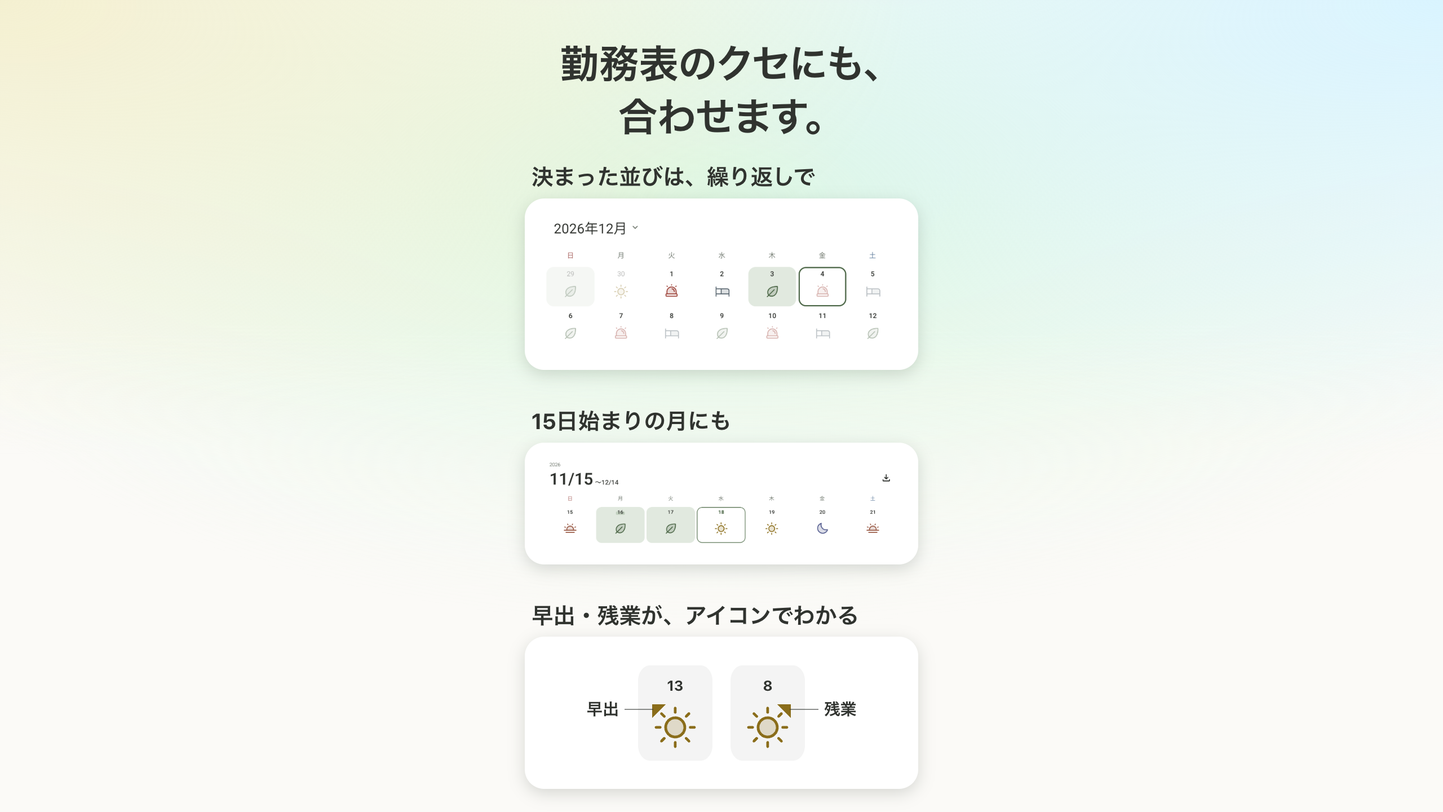
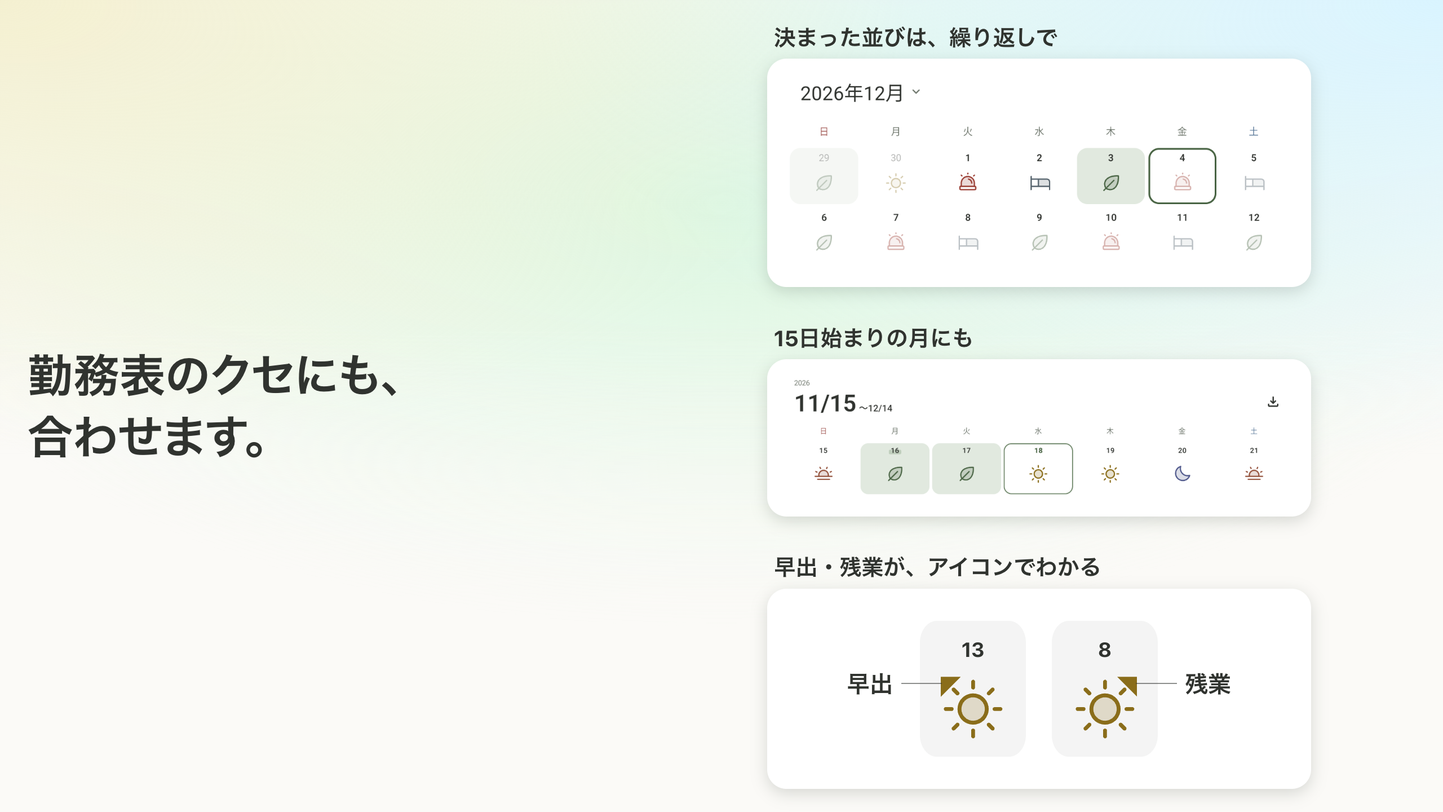
Store pictures: a tablet's tiles beside their headline
On a picture on its side, the tiles of 07-details and 08-cares stood in
a narrow column under a headline of two lines, too small to read at a
listing's size. Such a picture now lays its headline on the left, large
and left-aligned, and the tiles in a column a little over half its width
on the right, from its top to its foot (besideOf, BESIDE), the tiles as
large as that column lets them by the rules they kept. Pictures on their
side of a screen, and every upright picture, are as they were.

diff --git a/apps/design/src/routes/_tool/[_]render/store-shot.tsx b/apps/design/src/routes/_tool/[_]render/store-shot.tsx
@@ -1,6 +1,8 @@
 import { ShiftMark } from "@pochical/prototype/components/shift-mark";
 import { presetPatterns } from "@pochical/prototype/lib/design-patterns";
 import {
+  BESIDE,
+  besideOf,
   HEADLINE,
   HEADLINE_SHARE,
   lineClearOf,
@@ -94,28 +96,47 @@ const TILES = {
   words: 4.8,
 };
 
-// How the tiles lie, in --u: from where a phone starts under the headline
-// to where it ends, in `picture`, whose store's screen is `screen`. Each
-// holds a part as tall as `parts` says in its widths; they are as wide as
-// lets them all fit there with the least gap, and share the room they
-// leave evenly as the gaps between them, up to the most a gap may be,
-// beyond which the rest is sky over and under them alike: they are a group
-// of their own, not a phone, one over the other in a picture on its side
-// too, as wide as its screen is drawn at most.
+// Where the tiles stand, in --u: `stage` units tall, `widest` across at
+// most. Under the headline, where a phone is, as wide as the screen is
+// drawn there at most (or as the iPhone is, where that is wider); beside
+// the headline (besideOf), the tiles' column, from the picture's top to
+// its foot with the room under a phone at both.
+const tilesStage = (
+  picture: { height: number; width: number },
+  screen: { height: number; width: number },
+  beside: boolean
+) => {
+  const unit = unitOf(picture);
+  if (beside) {
+    return {
+      stage: picture.height / unit - 2 * STAGE_FOOT,
+      widest: (picture.width * BESIDE.tiles) / unit - 2 * BESIDE.margin,
+    };
+  }
+  const stage = (picture.height * (1 - HEADLINE_SHARE)) / unit - STAGE_FOOT;
+  return {
+    stage,
+    widest: Math.max(TILES.widest, (stage * screen.width) / screen.height),
+  };
+};
+
+// How the tiles lie, in --u, on their stage (tilesStage). Each holds a
+// part as tall as `parts` says in its widths; they are as wide as lets
+// them all fit there with the least gap, `widest` at most, and share the
+// room they leave evenly as the gaps between them, up to the most a gap
+// may be, beyond which the rest is sky over and under them alike: they are
+// a group of their own, not a phone, one over the other.
 const tilesLie = (
   parts: number[],
-  picture: { height: number; width: number },
-  screen: { height: number; width: number }
+  { stage, widest }: { stage: number; widest: number }
 ) => {
   const gaps = Math.max(parts.length - 1, 1);
-  const stage =
-    (picture.height * (1 - HEADLINE_SHARE)) / unitOf(picture) - STAGE_FOOT;
   const room =
     stage -
     (TILES.words * TILES.line + TILES.under + 2 * TILES.pad) * parts.length;
   const tallness = parts.reduce((sum, part) => sum + part, 0);
   const wide = Math.min(
-    Math.max(TILES.widest, (stage * screen.width) / screen.height),
+    widest,
     (room - TILES.gap * gaps) / tallness + 2 * TILES.pad
   );
   const left = room - tallness * (wide - 2 * TILES.pad);
@@ -152,6 +173,20 @@ const styles = {
     paddingTop: `calc(var(--u) * ${HEADLINE.over})`,
     position: "relative",
     textAlign: "center",
+    whiteSpace: "nowrap",
+    zIndex: 1,
+  }),
+  // The headline beside the tiles (besideOf): in the picture's left part,
+  // down its middle, left-aligned.
+  headlineBeside: css({
+    alignItems: "center",
+    boxSizing: "border-box",
+    display: "flex",
+    fontSize: `calc(var(--u) * ${BESIDE.size})`,
+    inset: `0 ${BESIDE.tiles * 100}% 0 0`,
+    paddingLeft: `calc(var(--u) * ${BESIDE.margin})`,
+    position: "absolute",
+    textAlign: "left",
     whiteSpace: "nowrap",
     zIndex: 1,
   }),
@@ -210,14 +245,21 @@ const styles = {
   }),
   // The tiles one over the other, each as tall as its part is, in the middle
   // of where a phone is under the headline (tilesLie).
+  // Beside the headline, the tiles' column on the right (besideOf).
+  tilesBeside: css({
+    inset: `calc(var(--u) * ${STAGE_FOOT}) 0 calc(var(--u) * ${STAGE_FOOT}) ${(1 - BESIDE.tiles) * 100}%`,
+  }),
   tiles: css({
     "& figure": { margin: 0 },
     alignItems: "center",
     display: "flex",
     flexDirection: "column",
-    inset: `var(--headline) 0 calc(var(--u) * ${STAGE_FOOT})`,
     justifyContent: "center",
     position: "absolute",
+  }),
+  // Under the headline, where a phone is.
+  tilesUnder: css({
+    inset: `var(--headline) 0 calc(var(--u) * ${STAGE_FOOT})`,
   }),
   // The widgets on a Home Screen's grid, tilted, running off every edge
   // and fading into the sky where the picture's words are.
@@ -270,6 +312,7 @@ function StoreShotPage() {
   }
   const { corner, height, screen, width } = STORES[store];
   const pair = `${width > height ? PAIR.side : PAIR.upright}%`;
+  const beside = besideOf(shot, { height, width });
   return (
     <div
       className={styles.root}
@@ -291,7 +334,10 @@ function StoreShotPage() {
         />
       )}
       <h1
-        className={cx(pictureTitle, styles.headline)}
+        className={cx(
+          pictureTitle,
+          beside ? styles.headlineBeside : styles.headline
+        )}
         style={pictureTitleStyle}
       >
         <span>
@@ -316,11 +362,11 @@ function StoreShotPage() {
       )}
       {shot.kind === "tiles" && (
         <Tiles
+          beside={beside}
           grounds={grounds.split(",")}
           lie={tilesLie(
             parts.split(",").map(Number),
-            { height, width },
-            screen
+            tilesStage({ height, width }, screen, beside)
           )}
           tiles={shot.tiles}
           unit={unitOf({ height, width })}
@@ -401,18 +447,26 @@ function CalloutCard({ drawn, raw }: { drawn: number[]; raw: string }) {
 // over its card, which holds its part of a screen or its pieces. `unit` is
 // the picture's unit in pixels.
 function Tiles({
+  beside,
   grounds,
   lie: { gap, wide },
   tiles,
   unit,
 }: {
+  beside: boolean;
   grounds: string[];
   lie: { gap: number; wide: number };
   tiles: readonly Tile[];
   unit: number;
 }) {
   return (
-    <div className={styles.tiles} style={{ gap: `calc(var(--u) * ${gap})` }}>
+    <div
+      className={cx(
+        styles.tiles,
+        beside ? styles.tilesBeside : styles.tilesUnder
+      )}
+      style={{ gap: `calc(var(--u) * ${gap})` }}
+    >
       {tiles.map((tile, index) => (
         <figure key={tile.words} style={{ width: `calc(var(--u) * ${wide})` }}>
           <figcaption className={styles.tileWords}>{tile.words}</figcaption>

diff --git a/apps/design/tests/store-screenshots.test.ts b/apps/design/tests/store-screenshots.test.ts
@@ -3,6 +3,8 @@ import path from "node:path";
 
 import {
   calloutOf,
+  BESIDE,
+  besideOf,
   HEADLINE,
   HEADLINE_SHARE,
   STAGE_FOOT,
@@ -114,6 +116,37 @@ test.each([
       height: size.height,
       width: size.width,
     });
+  }
+);
+
+// A headline beside the tiles (besideOf) keeps its rows, never broken,
+// inside the picture's part left of the tiles' column, its margin at both
+// sides, and its lines inside the picture's height.
+test.each(
+  STORE_SHOTS.flatMap((shot) =>
+    Object.entries(STORES)
+      .filter(([, picture]) => besideOf(shot, picture))
+      .map(([store, picture]) => ({
+        headline: shot.headline,
+        name: shot.name,
+        picture,
+        store,
+      }))
+  )
+)(
+  "$name's headline fits beside its tiles in $store",
+  ({ headline, picture }) => {
+    const unit = unitOf(picture);
+    for (const line of headline) {
+      expect(
+        line.length * BESIDE.size * (1 + TITLE.spacing)
+      ).toBeLessThanOrEqual(
+        (picture.width * (1 - BESIDE.tiles)) / unit - 2 * BESIDE.margin
+      );
+    }
+    expect(headline.length * BESIDE.size * TITLE.line).toBeLessThanOrEqual(
+      picture.height / unit
+    );
   }
 );
 

diff --git a/packages/prototype/src/lib/store-shots.ts b/packages/prototype/src/lib/store-shots.ts
@@ -106,6 +106,20 @@ export const HEADLINE_SHARE = 0.2;
 // row, never broken.
 export const HEADLINE = { margin: 2, over: 4, size: 8.6 } as const;
 
+// A picture on its side of tiles, a tablet's, lays its headline beside
+// them rather than over them, where it would leave the tiles the narrow
+// column a phone's are: the tiles' column on the right, `tiles` of the
+// picture's width, and the headline in the rest, left-aligned, its
+// letters `size` units large, `margin` units from the picture's left
+// side and from the tiles. A picture on its side of a screen keeps its
+// headline over the screen.
+export const BESIDE = { margin: 6, size: 10, tiles: 0.56 } as const;
+
+export const besideOf = (
+  shot: { kind: string },
+  picture: { height: number; width: number }
+): boolean => shot.kind === "tiles" && picture.width > picture.height;
+
 // How a picture's title is set (apps/design's site-picture.tsx): how tall
 // a line is in its letters' size, and how far apart the letters are, in
 // it too.

diff --git a/AGENTS.md b/AGENTS.md
@@ -14,7 +14,7 @@ Pochical is a monorepo: native SwiftUI (`apps/ios`) and Jetpack Compose (`apps/a
   - ライセンス's list of libraries is generated by each app's build, never checked in (spec/calendar.md, ライセンス): on iOS by LicenseList's build plugin from the resolved Swift packages' checkouts (`PLL_SOURCE_PACKAGES_PATH` names them when `-clonedSourcePackagesDirPath` moves them, as CI's `ios` job does), on Android by AboutLibraries' Gradle plugin into each variant's `res/raw/aboutlibraries.json`, with what the app carries besides its dependencies in `apps/android/app/aboutlibraries/libraries`.
   - Icons: the marks' paths from Phosphor via `pnpm --dir design icon:marks`; the iOS app icons and the widgets' `PeekingPoodle` via `pnpm --dir packages/prototype icon:ios`, and Android's launcher icon (its `mipmap` layers and the background color) and the Play listing's 512-pixel icon (`apps/android/app/src/main/ic_launcher-playstore.png`) and the widgets' `widget_poodle` via `icon:android`, both painting with `scripts/app-icon.ts` as the site icon's `icon:site` does.
   - try's installable app (`apps/try/public/app`): the icons, iOS's launch images and the web app manifest via `pnpm --dir apps/try icon:app` (`scripts/app-assets.ts`), and the manifest's screenshots, the screens `src/lib/app-screenshots.ts` names, via `image:screens`, which photographs the app on a dev server of its own as apps/design's `image:share` photographs the share image, both through `@pochical/prototype`'s `scripts/photograph.ts`. A change to that list runs both.
-  - The stores' pictures (`store/screenshots/<store>`, Google Play's feature graphic, `store/feature-graphic.png`, and the App Store's product page header, `store/product-page-header.png`): the shots, their headlines and each store's size in `@pochical/prototype`'s `lib/store-shots.ts` → `ANDROID_SERIAL=emulator-<port> mise run store:screenshots`. It photographs the real apps' screens into `.build/store-screenshots/<store>`, under the same names on both platforms, each against a server it starts and `tools/store-screenshots/seed.ts` seeds with two groups made by one piece, the coworkers' and a group of friends, each person's photo one of the faces' drawings (`design/src/drawings`) (`store:shots:android`: `StoreScreenshots` on the running emulator `ANDROID_SERIAL` names, never a phone, the widgets drawn there by themselves from the app's own days; `store:shots:ios`: `StoreScreenshotTests` in a simulator of its own and no other, `pochical-store`, an iPhone 18 Pro Max, the run failing when a simulator of the name is another device, the widgets put on its Home Screen; and for a tablet's pictures the same shots on a tablet on its side, where its wide layouts show (#1226): `store:shots:ipad` in its own `pochical-store-ipad`, an iPad Pro 13-inch (M5), the tab bar at the top as the app opens, and `store:shots:android-tablet` on the running tablet's emulator `ANDROID_SERIAL` names, each failing on a device of the other kind, into `.build/store-screenshots/ipad` and `android-tablet`), then draws each on the site's sky under its headline (`store:images`: apps/design's `image:store`, which photographs `/_render/store-shot` as `image:share` does the share image, for each store whose screens are there). The seed runs beside the capture: it makes the groups, writes their invitations, and writes the coworkers' chat only once the person photographed has joined, so the chat says every joining above its lines, and more lines than a screen holds keep them out of the picture, among them two photographs sent at once (`tools/store-screenshots/photos`, whose README names where each is from; a JPEG put there under the same name is sent in its place); the capture reads the chat to its latest line, opens it again, and photographs it there. The status bar says 9:41 in every picture, whenever the run is, and the chat's lines the time they were written; Android's is SystemUI's demo, entered once the emulator is on its Wi-Fi, as one entered in the seconds after a boot shows a second Wi-Fi icon to its end. Every look is set through the app's own settings: a raw file or folder named `-sumi` is in black and white (テーマ 墨, シフトの色 ワントーン, シフトの見た目 線, 休みの見せ方 印だけ, 色をつける日 off; the month's own picture with 月と曜日 英語, the widgets 日本語), one named `-letters` has the shifts as letters (シフトの見た目 文字, in the テーマ the app starts in), the rest as the app starts. The wall of widgets is placed by hand (the shot's `tiles`: which widget, in which look, in which cell of `WALL`; a store's own over them, its `wall`, an iPad's extra large カレンダー), from every kind at each size it has for a Home Screen but one that takes a whole page of it (the iPhone's upright extra large), those that can be set to someone set to a person and to the group too, and those today's shift changes on each of the sample's (a day off, 日勤, 夜勤, 明け: the capture enters it for today in ポチポチ入力 and photographs them in both looks before it enters the next), in the app's look and in 墨: medium and large widgets carry it, small ones are its accents. 次の休み counting to a day off, 次の休み on a day off and いまのシフト are marked `whole` and stand together where the eye lands, whole in each store's picture and in what every picture drawn from the wall shows on every device; no picture is beside itself. Entering a shift takes a day's own hours off it (早出, 残業) and 夜勤 gives the day after its 明け, and nothing is put back: every picture of the month is taken before the widgets, ポチポチ入力's among them, whose days taken out are entered again by the tray's keys and the month checked to say what it did before; the widgets' shifts go in the order that leaves each the days it shows as the sample has them. いまのシフト draws its ring only while a shift is on, so after the widgets a run enters one of the sample's shifts that is on at that hour and photographs that widget again, in the app's look, once it says the shift is on (before 9:00 that shift is the day before's 夜勤, which the month's page has no day for on the 1st: the run is not started then, and says to run from 9:00). A widget is photographed once it says the days it is to show (iOS; Android draws it from what the app holds then), and a run fails when a widget asked for is not there, when the seed's last checks fail, when the port already has a server, or when the emulator's settings are not all put back. The friends' group is joined as まい with ひよこ picked for a face, in place of the drawing a new person is given at random, and the coworkers' as 佐藤, there alone. A shot of one screen may lift the part its headline is about (its `callout`): the capture measures that part by its element, and every piece of the screen that says something, into `<raw>.json` (on Android as Compose lays them out, the accessibility tree giving a button smaller than a finger the larger place it takes touches in), and the picture draws the part again, larger (as large as keeps a row as wide as the screen inside the picture and the card as far over the phone's foot as the phone is over the picture's, 1.35 times at most), on a card over the phone that starts where the part does and grows down from there, what leads to the part left in sight over it; a piece the card would lie over a part of, on any side, it takes in whole, so nothing shows cut beside it, and the part is drawn in the card's middle, whole lines of the screen with their own room. The friends' table lifts the days everyone is off, the chat its poll's line with the line that asks for it, 端末カレンダーに追加 its 自動で反映. The details' shot and the cares' are three tiles each, within where a phone is under the headline, the room they leave shared evenly between them up to the most a gap may be and the rest left over and under them alike, a tile a card of the picture's with room inside it, on the ground of what it holds: a part of a screen its platform's UI test cuts at whole rows, from the top of one of the screen's own pieces to the foot of another, as wide as the page or the month's week it is of (the screen on a phone), or pieces the page draws from the app's own marks, larger than a screen has them, with words and lines of the picture's that say what happens (the shot's `pieces`). Each tile holds only what makes its point. A part's file is named for what it is (`tile-<what>.png`), not for the shot it is in. The details', how a roster itself is: two weeks of 繰り返しを直す on a fixed cycle, a run's last step but one as it changes the job, to the ready-made 当番・非番・休み from next month's 1st, 当番 and 休み then named 当務 and 週休; the first week of a page of a シフトの期間 from the 15th under its heading, set in 設定 and put back; and a day of 早出 and one of 残業 with their marks' corners named, drawn. The cares', what the app does for the person: 夜勤's key pressed and the two days it fills, the second the app's doing, drawn; リマインド's reminder of the evening before, the next notification as its page draws it, before anything is changed; and グループの設定's rows of a group with an end, 忘年会, made in グループを作る with the day 終了日をつける offers, a run's very last step as it leaves a group. The same run draws the cards the site's top page ends on, the list `CARD_PICTURES`: each a picture of raw captures laid where the list says (the two looks of the month in their frames, 自動で反映 with its note and button, two weeks of 繰り返し, the evening before's reminder), into `packages/prototype/src/assets`. The wall is drawn in other pictures too, the list `WALL_PICTURES`: each its name, size, file, the store whose widgets it shows, where the wall lies in it (`lie`, as in a store's picture without), the line it carries (`line`, the wall clearing to the sky around it, none without) and the part of it every device shows (`safe`, which holds the line and the widgets marked `whole`, anywhere without). The App Store's product page header is the first: the wall across 3840×1646, the site's line beside the three widgets, both inside the art safe area measured from Apple's template. Google Play's feature graphic is the second, of Android's widgets: the wall across 1024×500 at twice the header's size for its width, so a widget's shapes read as narrow as a phone shows it, the line and the three widgets clear of 8 hundredths of each side, which Play cuts or covers in places. A picture on its side, a tablet's, is laid out in the units of an upright picture as tall (`unitOf`), so its headline and the room around its screen are as large for its height as a phone's, its tiles as wide as its screen at most, its wall laid side by side as often as covers it, the widgets marked `whole` those of the copy in the middle, and no callout: its screen is drawn large enough to read, and a part of it stands on a page beside others with no room to grow. A change to that page or to a headline runs `store:images` alone, the screens still in `.build`; a change to an app's screens runs its `store:shots:*` and `store:images`.
+  - The stores' pictures (`store/screenshots/<store>`, Google Play's feature graphic, `store/feature-graphic.png`, and the App Store's product page header, `store/product-page-header.png`): the shots, their headlines and each store's size in `@pochical/prototype`'s `lib/store-shots.ts` → `ANDROID_SERIAL=emulator-<port> mise run store:screenshots`. It photographs the real apps' screens into `.build/store-screenshots/<store>`, under the same names on both platforms, each against a server it starts and `tools/store-screenshots/seed.ts` seeds with two groups made by one piece, the coworkers' and a group of friends, each person's photo one of the faces' drawings (`design/src/drawings`) (`store:shots:android`: `StoreScreenshots` on the running emulator `ANDROID_SERIAL` names, never a phone, the widgets drawn there by themselves from the app's own days; `store:shots:ios`: `StoreScreenshotTests` in a simulator of its own and no other, `pochical-store`, an iPhone 18 Pro Max, the run failing when a simulator of the name is another device, the widgets put on its Home Screen; and for a tablet's pictures the same shots on a tablet on its side, where its wide layouts show (#1226): `store:shots:ipad` in its own `pochical-store-ipad`, an iPad Pro 13-inch (M5), the tab bar at the top as the app opens, and `store:shots:android-tablet` on the running tablet's emulator `ANDROID_SERIAL` names, each failing on a device of the other kind, into `.build/store-screenshots/ipad` and `android-tablet`), then draws each on the site's sky under its headline (`store:images`: apps/design's `image:store`, which photographs `/_render/store-shot` as `image:share` does the share image, for each store whose screens are there). The seed runs beside the capture: it makes the groups, writes their invitations, and writes the coworkers' chat only once the person photographed has joined, so the chat says every joining above its lines, and more lines than a screen holds keep them out of the picture, among them two photographs sent at once (`tools/store-screenshots/photos`, whose README names where each is from; a JPEG put there under the same name is sent in its place); the capture reads the chat to its latest line, opens it again, and photographs it there. The status bar says 9:41 in every picture, whenever the run is, and the chat's lines the time they were written; Android's is SystemUI's demo, entered once the emulator is on its Wi-Fi, as one entered in the seconds after a boot shows a second Wi-Fi icon to its end. Every look is set through the app's own settings: a raw file or folder named `-sumi` is in black and white (テーマ 墨, シフトの色 ワントーン, シフトの見た目 線, 休みの見せ方 印だけ, 色をつける日 off; the month's own picture with 月と曜日 英語, the widgets 日本語), one named `-letters` has the shifts as letters (シフトの見た目 文字, in the テーマ the app starts in), the rest as the app starts. The wall of widgets is placed by hand (the shot's `tiles`: which widget, in which look, in which cell of `WALL`; a store's own over them, its `wall`, an iPad's extra large カレンダー), from every kind at each size it has for a Home Screen but one that takes a whole page of it (the iPhone's upright extra large), those that can be set to someone set to a person and to the group too, and those today's shift changes on each of the sample's (a day off, 日勤, 夜勤, 明け: the capture enters it for today in ポチポチ入力 and photographs them in both looks before it enters the next), in the app's look and in 墨: medium and large widgets carry it, small ones are its accents. 次の休み counting to a day off, 次の休み on a day off and いまのシフト are marked `whole` and stand together where the eye lands, whole in each store's picture and in what every picture drawn from the wall shows on every device; no picture is beside itself. Entering a shift takes a day's own hours off it (早出, 残業) and 夜勤 gives the day after its 明け, and nothing is put back: every picture of the month is taken before the widgets, ポチポチ入力's among them, whose days taken out are entered again by the tray's keys and the month checked to say what it did before; the widgets' shifts go in the order that leaves each the days it shows as the sample has them. いまのシフト draws its ring only while a shift is on, so after the widgets a run enters one of the sample's shifts that is on at that hour and photographs that widget again, in the app's look, once it says the shift is on (before 9:00 that shift is the day before's 夜勤, which the month's page has no day for on the 1st: the run is not started then, and says to run from 9:00). A widget is photographed once it says the days it is to show (iOS; Android draws it from what the app holds then), and a run fails when a widget asked for is not there, when the seed's last checks fail, when the port already has a server, or when the emulator's settings are not all put back. The friends' group is joined as まい with ひよこ picked for a face, in place of the drawing a new person is given at random, and the coworkers' as 佐藤, there alone. A shot of one screen may lift the part its headline is about (its `callout`): the capture measures that part by its element, and every piece of the screen that says something, into `<raw>.json` (on Android as Compose lays them out, the accessibility tree giving a button smaller than a finger the larger place it takes touches in), and the picture draws the part again, larger (as large as keeps a row as wide as the screen inside the picture and the card as far over the phone's foot as the phone is over the picture's, 1.35 times at most), on a card over the phone that starts where the part does and grows down from there, what leads to the part left in sight over it; a piece the card would lie over a part of, on any side, it takes in whole, so nothing shows cut beside it, and the part is drawn in the card's middle, whole lines of the screen with their own room. The friends' table lifts the days everyone is off, the chat its poll's line with the line that asks for it, 端末カレンダーに追加 its 自動で反映. The details' shot and the cares' are three tiles each, within where a phone is under the headline, the room they leave shared evenly between them up to the most a gap may be and the rest left over and under them alike, a tile a card of the picture's with room inside it, on the ground of what it holds: a part of a screen its platform's UI test cuts at whole rows, from the top of one of the screen's own pieces to the foot of another, as wide as the page or the month's week it is of (the screen on a phone), or pieces the page draws from the app's own marks, larger than a screen has them, with words and lines of the picture's that say what happens (the shot's `pieces`). Each tile holds only what makes its point. A part's file is named for what it is (`tile-<what>.png`), not for the shot it is in. The details', how a roster itself is: two weeks of 繰り返しを直す on a fixed cycle, a run's last step but one as it changes the job, to the ready-made 当番・非番・休み from next month's 1st, 当番 and 休み then named 当務 and 週休; the first week of a page of a シフトの期間 from the 15th under its heading, set in 設定 and put back; and a day of 早出 and one of 残業 with their marks' corners named, drawn. The cares', what the app does for the person: 夜勤's key pressed and the two days it fills, the second the app's doing, drawn; リマインド's reminder of the evening before, the next notification as its page draws it, before anything is changed; and グループの設定's rows of a group with an end, 忘年会, made in グループを作る with the day 終了日をつける offers, a run's very last step as it leaves a group. The same run draws the cards the site's top page ends on, the list `CARD_PICTURES`: each a picture of raw captures laid where the list says (the two looks of the month in their frames, 自動で反映 with its note and button, two weeks of 繰り返し, the evening before's reminder), into `packages/prototype/src/assets`. The wall is drawn in other pictures too, the list `WALL_PICTURES`: each its name, size, file, the store whose widgets it shows, where the wall lies in it (`lie`, as in a store's picture without), the line it carries (`line`, the wall clearing to the sky around it, none without) and the part of it every device shows (`safe`, which holds the line and the widgets marked `whole`, anywhere without). The App Store's product page header is the first: the wall across 3840×1646, the site's line beside the three widgets, both inside the art safe area measured from Apple's template. Google Play's feature graphic is the second, of Android's widgets: the wall across 1024×500 at twice the header's size for its width, so a widget's shapes read as narrow as a phone shows it, the line and the three widgets clear of 8 hundredths of each side, which Play cuts or covers in places. A picture on its side, a tablet's, is laid out in the units of an upright picture as tall (`unitOf`), so its headline and the room around its screen are as large for its height as a phone's, its tiles beside its headline rather than under it (`besideOf`: the headline large on the left, the tiles' column a little over half of it on the right, from its top to its foot, the tiles as large as that column lets them), its wall laid side by side as often as covers it, the widgets marked `whole` those of the copy in the middle, and no callout: its screen is drawn large enough to read, and a part of it stands on a page beside others with no room to grow. A change to that page or to a headline runs `store:images` alone, the screens still in `.build`; a change to an app's screens runs its `store:shots:*` and `store:images`.
   - Workers' types: each Worker's `wrangler.jsonc` and the wrangler in `pnpm-lock.yaml`, with the workerd it pins → `mise run gen:worker-types`, which runs every workspace's `cf-typegen` (into `worker-configuration.d.ts` in `apps/server`, `apps/admin` and `apps/web`). A wrangler bump regenerates them too; CI runs `mise run worker-types:check`. A Worker with a `cf-typegen` and no secrets still declares `"secrets": { "required": [] }`, so its types never come from a computer's `.dev.vars` or `.env`.
   - SQL schemas are Drizzle and their migrations are generated, never written: D1 `apps/server/src/db/schema.ts` (`mise run db:generate -- --name <what>`; better-auth's tables via `mise run auth:schema` first), the Group DO `group-do-schema.ts` (`mise run group-do:generate`), the User DO `user-do-schema.ts` (`mise run user-do:generate`). CI runs `mise run db:check`.
 - The stores' listings are in `store/` (`store/README.md`): the texts of the App Store and Google Play, and the answers to their forms (`declarations.md`), entered into App Store Connect and Play Console by hand. `apps/design`'s tests hold each text to its store's limit; an answer changes in the PR that changes what the app does.
